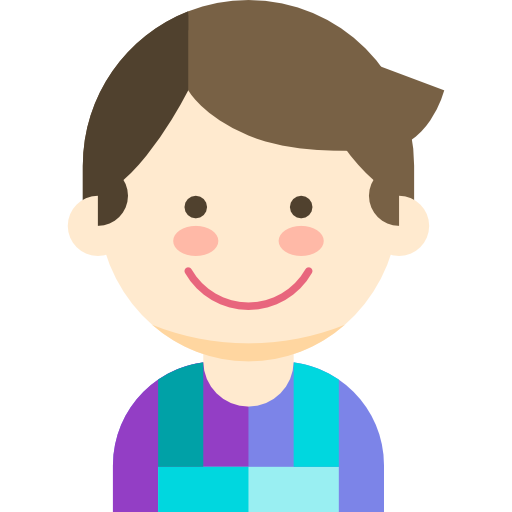
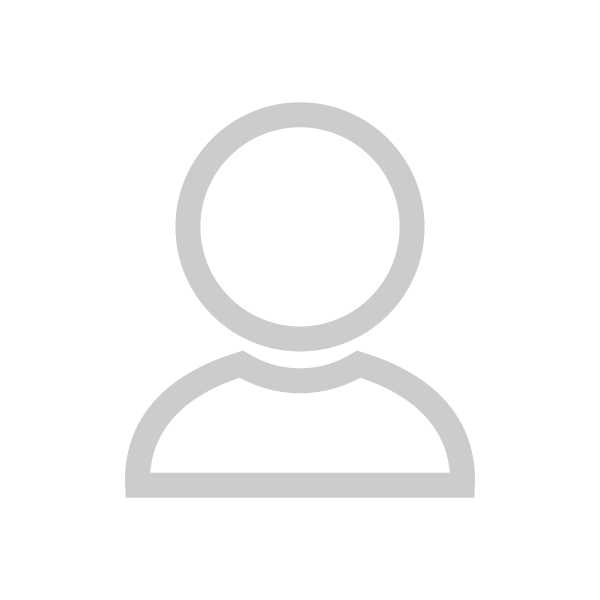
modifications made to view travel agent component UI, changed default profile picture

diff --git a/Frontend/src/app/components/travelAgent/view-travel-agents/view-travel-agents.component.html b/Frontend/src/app/components/travelAgent/view-travel-agents/view-travel-agents.component.html
@@ -1,46 +1,70 @@
-<app-nav></app-nav>
-
-<div class="container bg-info">
-  <div class="row">
-    <div class="col"></div>
-    <div class="col-10">
-      <div class=" search form-group">
-        <input type="text" class="form-control" name="search" placeholder="search Here..." [(ngModel)]="searchKeyword">
-      </div>
-      <div>
-        <table class="table table-responsive-sm	">
-          <tr *ngFor="let tagent of travelAgentService.tagent | TravelAgentFilter:searchKeyword">
-            <td align="center">
-              <div class="col-md-8 main-login main-center">
-                <div class="card flex-md-row mb-4 bg-light shadow-sm h-md-250">
-                  <div class="card-body d-flex flex-column align-items-start">
-                    <strong class="d-inline-block mb-2 text-primary">{{tagent.fname}} {{tagent.lname}}</strong>
-                    <h6 class="mb-0"></h6>
-                    <div class="mb-1 text-muted small">{{tagent.email}}</div><br>
-                    <p class="card-text mb-auto">Telephone : {{tagent.telephone}} <br>Address : {{tagent.address}}</p>
-                    <a *ngIf="user.isadmin==true" class="action-btn" (click)="onEdit(tagent)">
-                      <i class="fas fa-pencil-alt  btn-outline-primary btn-sm" (click)="showDialog()">
-                        edit</i>
-                    </a>
-                    <a *ngIf="user.isadmin==true" class="action-btn" (click)="onDelete(tagent._id)">
-                      <i class="fas fa-trash-alt  btn-outline-primary btn-sm"> delete</i>
-                    </a>
-                  </div>
-                  <img *ngIf="tagent.profilepic==null" class="card-img-right flex-auto d-none d-lg-block" alt="Thumbnail [200x250]" src="../../../../assets/default.png"
-                    style="width: 200px; height: 200px;">
-                    <img *ngIf="tagent.profilepic!=null" class="card-img-right flex-auto d-none d-lg-block" alt="Thumbnail [200x250]" src="../../../../assets/{{tagent.profilepic}}"
-                    style="width: 200px; height: 200px;">
-                  <!--img class="card-img-right flex-auto d-none d-lg-block" alt="Thumbnail [200x250]" src="{{tagent.profilepic}}" style="width: 200px; height: 250px;"-->
-                </div>
-              </div>
-            </td>
-          </tr>
-        </table>
+<div class="container-fluid">
+  <div class = "row nav_row">
+    <div class="col-md-4"></div>
+    <div class="col-md-8 nav_col">
+      <app-nav-white></app-nav-white>
+    </div>
+  </div>
+  <div class="row top_padding">
+    <div class="col-md-1 col-xs-1"></div>
+    <div class="col-md-10 col-xs-10">
+      <div class="row">
+        <div class="col-lg-6 labelCover">
+          <h4 id="h4l">MANAGE TRAVEL AGENTS</h4>
+        </div>
+        <div class="col-lg-6 searchBar">
+          <div class="searchCover">
+            <div class=" search form-group search_bar">
+              <input type="text" class="form-control" name="search" placeholder="search Here..." [(ngModel)]="searchKeyword">
+            </div>
+          </div>
+        </div>
       </div>
     </div>
-    <div class="col"></div>
+    <div class="col-md-1 col-xs-1"></div>
   </div>
+
+
+  <div class="row content_row">
+    <div class="col-md-1 col-xs-1"></div>
+    <div class="col-md-10 col-xs-10">
+      <div class="row">
+        <div class="col-lg-6 card_col" *ngFor="let tagent of travelAgentService.tagent | TravelAgentFilter:searchKeyword">
+          <div class="row card_cover">
+            <div class="col-3 Pro_Pic_cover">
+              <img  *ngIf="tagent.profilepic==null" class="Pro_Pic" id ="pp1" alt="Thumbnail [200x250]" src="../../../../assets/default.png">
+              <img  *ngIf="tagent.profilepic!=null" class="Pro_Pic" id ="pp1" alt="Thumbnail [200x250]" src="../../../../assets/{{tagent.profilepic}}">
+            </div>
+            <div class="col-6 textParent">
+              <div class="textDev">
+                <h4>{{tagent.fname}} {{tagent.lname}}</h4>
+                <p class="email">{{tagent.email}}</p>
+              </div>
+            </div>
+            <div class="col-3">
+              <div class="row" style="height: 100%">
+                <div class="col-7 icn_container" style="padding: 0px" *ngIf="user.isadmin==true" (click)="onEdit(tagent)">
+                  <img (click)="showDialog()" class="edit_icn" src="../../../../../source/images/icon/icons8-edit-file-100.png">
+                </div>
+                <div class="col-5 icn_container icn_extra" style="background-color: #24ADAB; padding: 0px" *ngIf="user.isadmin==true" (click)="onDelete(tagent._id)">
+                  <img class="delete_icn" src="../../../../../source/images/icon/icons8-delete-bin-100.png">
+                </div>
+              </div>
+            </div>
+          </div>
+        </div>
+      </div>
+    </div>
+    <div class="col-md-1 col-xs-1"></div>
+  </div>
+  <div class="row bottom_padding"></div>
 </div>
+
+
+
+
+
+
 <p-dialog [(visible)]="display" [modal]="true" [responsive]="true" [width]="600">
   <div class="container">
     <div class="row">
@@ -57,7 +81,7 @@
                   <div class="input-group">
                     <span class="input-group-addon"><i class="fa fa-user fa" aria-hidden="true"></i></span>
                     <input type="text" class="form-control" name="fname" #name="ngModel" [(ngModel)]="travelAgentService.selectedTravelAgent.fname"
-                      required>
+                           required>
                   </div>
                 </div>
               </div>
@@ -78,7 +102,7 @@
                   <div class="input-group">
                     <span class="input-group-addon"><i class="fa fa-user fa" aria-hidden="true"></i></span>
                     <input type="text" class="form-control" name="username" #name="ngModel" [(ngModel)]="travelAgentService.selectedTravelAgent.username"
-                      required>
+                           required>
                   </div>
                 </div>
               </div>

diff --git a/Frontend/src/app/components/travelAgent/view-travel-agents/view-travel-agents.component.css b/Frontend/src/app/components/travelAgent/view-travel-agents/view-travel-agents.component.css
@@ -1,6 +1,153 @@
+.nav_col{
+  padding-top:2%;
+  padding-bottom: auto;
+  padding-left: 0px;
+  /* media @xl
+  padding-right: 50px;
+   */
+  padding-right: 10px;
+  border-bottom: 1px solid rgba(112,112,112,0.7);
+}
+
 .search{
-    margin-top:30px;
+  margin-top:30px;
 }
 .test{
-    background-color: red;
+  background-color: red;
 }
+
+.nav_row{
+  min-height: 15vh;
+}
+
+.top_padding{
+  min-height: 13vh;
+}
+
+.content_row{
+  height: 68vh;
+}
+
+#h4l{
+  font-size: 22px;
+  color: #5C5C5C;
+}
+
+.labelCover,.searchBar{
+  margin-top: auto;
+  margin-bottom: auto;
+}
+.labelCover{
+
+}
+.searchBar{
+
+}
+.search_bar{
+  max-width: 390px;
+  width: 80%;
+  float: right;
+}
+
+.search_bar input{
+  height: 50px;
+  border:1px solid rgba(112,112,112,0.24);
+  border-radius: 10px;
+}
+
+
+.card_cover{
+  border:1px solid rgba(112,112,112,0.24);
+  border-radius: 7px;
+  padding-bottom: 0px;
+  width:90%;
+  height: 120px;
+  margin-bottom: 4%;
+  padding-right: 0px;
+}
+
+.searchCover{
+  width:87%;
+  min-width: 400px;
+  max-width: 600px;
+
+}
+
+.email{
+  font-size: 15px;
+  font-weight: bold;
+  font-family: "Helvetica Neue";
+  color: #797979;
+}
+
+.name{
+  font-weight: bold;
+  font-family: "Helvetica Neue";
+  color:#555353;
+}
+
+.delete_icn{
+  display: block;
+  width: 70%;
+
+}
+.edit_icn{
+  width: 40%;
+}
+
+.icn_container{
+  display: flex;
+  justify-content: center;
+  width: 100%;
+  align-items: center;
+}
+
+.icn_extra{
+  border:1px solid #24ADAB;
+  border-radius: 0 6px 6px 0;
+}
+
+.textParent{
+  display: flex;
+  justify-content: center;
+  width: 100%;
+  align-items: center;
+
+}
+
+.textDev{
+
+}
+
+.card_col{
+  margin-bottom: 2.5%;
+}
+
+.Pro_Pic_cover{
+  display: flex;
+  justify-content: center;
+  width: 100%;
+  align-items: center;
+  padding-right: 0px;
+}
+
+.Pro_Pic{
+  display: block;
+  max-height: 90%;
+  width: auto;
+  max-width: 90%;
+  border-radius: 100%;
+}
+
+
+.card_cover{
+  min-width: 400px;
+  max-width: 600px;
+}
+
+
+/*
+<img *ngIf="tagent.profilepic==null" class="card-img-right flex-auto d-none d-lg-block" alt="Thumbnail [200x250]" src="../../../../assets/default.png"
+style="width: 200px; height: 200px;">
+                                    <img *ngIf="tagent.profilepic!=null" class="card-img-right flex-auto d-none d-lg-block" alt="Thumbnail [200x250]" src="../../../../assets/{{tagent.profilepic}}">
+*/
